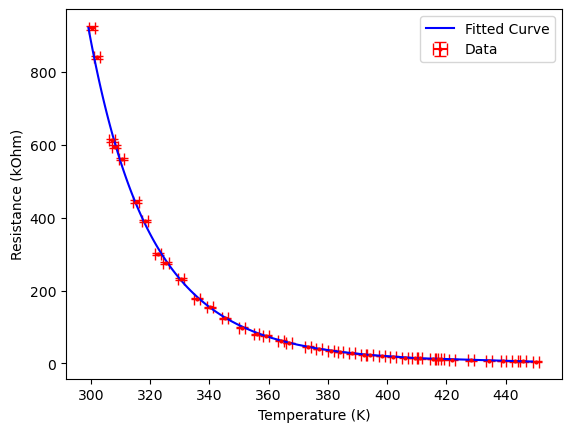
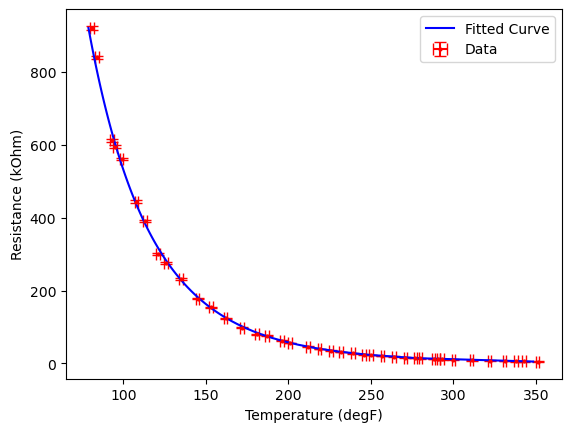
Uploading fixed naming scheme
Still figuring out git. I'm hopefully updating files in the correct location now.

diff --git a/docs/BBQ/BBQ_Setup.html b/docs/BBQ/BBQ_Setup.html
@@ -212,14 +212,14 @@ window.Quarto = {
 </header>
 
 
-<p>Once upon a time I got tired of tweaking my bbq dampers very hour for long smokes of brisket or pork shoulder. I put together an Arduino based PID fan controller that provided air flow from the bottom of the bbq, and I closed down the top damper. One challenge with this setup was reading out the temperature from a thermistor since I didn’t want to buy a thermocouple amplifier just for this project.</p>
+<p>Once upon a time I got tired of tweaking my bbq dampers very hour for long smokes of brisket or pork shoulder. I put together an Arduino based PID fan controller that provided air flow from the bottom of the bbq, and I closed down the top damper. One challenge with this setup was reading out the temperature from a thermistor since most food probe thermometers are thermistors, not thermocouples.</p>
 <section id="thermistor-calibration" class="level2">
 <h2 class="anchored" data-anchor-id="thermistor-calibration">Thermistor calibration</h2>
 <p>To calibrate the thermistor I filled a small pot with oil, and used a thermapen (food thermometer) and Fluke K type thermocouple as reference thermometers. I turned the burner on the lowest setting, continuously stirred the oil and moved the three thermometers (thermistor = unknown, thermapen, thermocouple) continuously to get an average of the oil bath temperature. The data and fit curve used are shown below:<br>
 <span class="math display">\[1/T = (a + b \cdot log(R) + c \cdot (log(R))^3)\]</span><br>
 *all units are converted to Kelvin and Ohms before fitting.</p>
 <p>This fit curve was uesd in the Arduino to calculate the temperature of the thermistor probes.</p>
-<div id="1aab8ef6-26b8-430c-b7da-49a02ce796db" class="cell" data-execution_count="5">
+<div id="1aab8ef6-26b8-430c-b7da-49a02ce796db" class="cell" data-execution_count="10">
 <details class="code-fold">
 <summary>Code</summary>
 <div class="code-copy-outer-scaffold"><div class="sourceCode cell-code" id="cb1"><pre class="sourceCode python code-with-copy"><code class="sourceCode python"><span id="cb1-1"><a href="#cb1-1" aria-hidden="true" tabindex="-1"></a><span class="im">import</span> numpy <span class="im">as</span> np</span>
@@ -227,22 +227,22 @@ window.Quarto = {
 <span id="cb1-3"><a href="#cb1-3" aria-hidden="true" tabindex="-1"></a><span class="im">import</span> matplotlib.pyplot <span class="im">as</span> plt</span>
 <span id="cb1-4"><a href="#cb1-4" aria-hidden="true" tabindex="-1"></a><span class="im">from</span> scipy.optimize <span class="im">import</span> curve_fit</span>
 <span id="cb1-5"><a href="#cb1-5" aria-hidden="true" tabindex="-1"></a></span>
-<span id="cb1-6"><a href="#cb1-6" aria-hidden="true" tabindex="-1"></a><span class="co"># 1. Define fit curve function here</span></span>
+<span id="cb1-6"><a href="#cb1-6" aria-hidden="true" tabindex="-1"></a><span class="co"># 1. Define fit curve function</span></span>
 <span id="cb1-7"><a href="#cb1-7" aria-hidden="true" tabindex="-1"></a><span class="kw">def</span> custom_curve(x, a, b, c):</span>
-<span id="cb1-8"><a href="#cb1-8" aria-hidden="true" tabindex="-1"></a>    <span class="co">"""</span></span>
-<span id="cb1-9"><a href="#cb1-9" aria-hidden="true" tabindex="-1"></a><span class="co">    Change this mathematical formula to match the curve you want to fit.</span></span>
-<span id="cb1-10"><a href="#cb1-10" aria-hidden="true" tabindex="-1"></a><span class="co">    Currently set to a quadratic function: y = 1/(a+b*np.log(x)+c*(np.log(x))**3)</span></span>
-<span id="cb1-11"><a href="#cb1-11" aria-hidden="true" tabindex="-1"></a><span class="co">    """</span></span>
-<span id="cb1-12"><a href="#cb1-12" aria-hidden="true" tabindex="-1"></a>    <span class="cf">return</span> (a<span class="op">+</span>b<span class="op">*</span>np.log(x)<span class="op">+</span>c<span class="op">*</span>(np.log(x))<span class="op">**</span><span class="dv">3</span>)</span>
-<span id="cb1-13"><a href="#cb1-13" aria-hidden="true" tabindex="-1"></a></span>
-<span id="cb1-14"><a href="#cb1-14" aria-hidden="true" tabindex="-1"></a><span class="co"># 2. Read the CSV file</span></span>
-<span id="cb1-15"><a href="#cb1-15" aria-hidden="true" tabindex="-1"></a>df <span class="op">=</span> pd.read_csv(<span class="st">"Thermistor-Oil.csv"</span>)</span>
+<span id="cb1-8"><a href="#cb1-8" aria-hidden="true" tabindex="-1"></a>    <span class="cf">return</span> (a<span class="op">+</span>b<span class="op">*</span>np.log(x)<span class="op">+</span>c<span class="op">*</span>(np.log(x))<span class="op">**</span><span class="dv">3</span>)</span>
+<span id="cb1-9"><a href="#cb1-9" aria-hidden="true" tabindex="-1"></a></span>
+<span id="cb1-10"><a href="#cb1-10" aria-hidden="true" tabindex="-1"></a><span class="co"># 2. Read the CSV file</span></span>
+<span id="cb1-11"><a href="#cb1-11" aria-hidden="true" tabindex="-1"></a>df <span class="op">=</span> pd.read_csv(<span class="st">"Thermistor-Oil.csv"</span>)</span>
+<span id="cb1-12"><a href="#cb1-12" aria-hidden="true" tabindex="-1"></a></span>
+<span id="cb1-13"><a href="#cb1-13" aria-hidden="true" tabindex="-1"></a><span class="co"># Extract the X and Y columns and convert to Kelvin and Ohms</span></span>
+<span id="cb1-14"><a href="#cb1-14" aria-hidden="true" tabindex="-1"></a>T_data <span class="op">=</span> (df[<span class="st">"BGE temp (F)"</span>].values<span class="op">-</span><span class="dv">32</span>)<span class="op">*</span>(<span class="dv">5</span><span class="op">/</span><span class="dv">9</span>)<span class="op">+</span><span class="fl">273.15</span></span>
+<span id="cb1-15"><a href="#cb1-15" aria-hidden="true" tabindex="-1"></a>R_data <span class="op">=</span> df[<span class="st">"Thermistor (kOhm)"</span>].values<span class="op">*</span><span class="dv">1000</span></span>
 <span id="cb1-16"><a href="#cb1-16" aria-hidden="true" tabindex="-1"></a></span>
-<span id="cb1-17"><a href="#cb1-17" aria-hidden="true" tabindex="-1"></a><span class="co"># Extract the X and Y columns</span></span>
-<span id="cb1-18"><a href="#cb1-18" aria-hidden="true" tabindex="-1"></a>T_data <span class="op">=</span> (df[<span class="st">"BGE temp (F)"</span>].values<span class="op">-</span><span class="dv">32</span>)<span class="op">*</span>(<span class="dv">5</span><span class="op">/</span><span class="dv">9</span>)<span class="op">+</span><span class="fl">273.15</span></span>
-<span id="cb1-19"><a href="#cb1-19" aria-hidden="true" tabindex="-1"></a>R_data <span class="op">=</span> df[<span class="st">"Thermistor (kOhm)"</span>].values<span class="op">*</span><span class="dv">1000</span></span>
-<span id="cb1-20"><a href="#cb1-20" aria-hidden="true" tabindex="-1"></a>R_error <span class="op">=</span> <span class="fl">0.005</span><span class="op">*</span>R_data <span class="op">+</span> <span class="dv">1000</span></span>
-<span id="cb1-21"><a href="#cb1-21" aria-hidden="true" tabindex="-1"></a>T_error <span class="op">=</span> <span class="dv">1</span></span>
+<span id="cb1-17"><a href="#cb1-17" aria-hidden="true" tabindex="-1"></a><span class="co"># Add error terms</span></span>
+<span id="cb1-18"><a href="#cb1-18" aria-hidden="true" tabindex="-1"></a><span class="co"># Fluke error is 0.5% of reading + least significant digit</span></span>
+<span id="cb1-19"><a href="#cb1-19" aria-hidden="true" tabindex="-1"></a>R_error <span class="op">=</span> <span class="fl">0.005</span><span class="op">*</span>R_data <span class="op">+</span> <span class="dv">1000</span></span>
+<span id="cb1-20"><a href="#cb1-20" aria-hidden="true" tabindex="-1"></a><span class="co"># Temperature error is assumed to be 2F, converted to Kelvin</span></span>
+<span id="cb1-21"><a href="#cb1-21" aria-hidden="true" tabindex="-1"></a>T_error <span class="op">=</span> <span class="dv">2</span><span class="op">*</span>(<span class="dv">5</span><span class="op">/</span><span class="dv">9</span>)</span>
 <span id="cb1-22"><a href="#cb1-22" aria-hidden="true" tabindex="-1"></a></span>
 <span id="cb1-23"><a href="#cb1-23" aria-hidden="true" tabindex="-1"></a><span class="co"># 3. Fit the curve to the data</span></span>
 <span id="cb1-24"><a href="#cb1-24" aria-hidden="true" tabindex="-1"></a><span class="co"># curve_fit returns:</span></span>
@@ -259,23 +259,19 @@ window.Quarto = {
 <span id="cb1-35"><a href="#cb1-35" aria-hidden="true" tabindex="-1"></a><span class="bu">print</span>(<span class="ss">f"b = </span><span class="sc">{</span>popt[<span class="dv">1</span>]<span class="sc">}</span><span class="ss">"</span>)</span>
 <span id="cb1-36"><a href="#cb1-36" aria-hidden="true" tabindex="-1"></a><span class="bu">print</span>(<span class="ss">f"c = </span><span class="sc">{</span>popt[<span class="dv">2</span>]<span class="sc">}</span><span class="ss">"</span>)</span>
 <span id="cb1-37"><a href="#cb1-37" aria-hidden="true" tabindex="-1"></a></span>
-<span id="cb1-38"><a href="#cb1-38" aria-hidden="true" tabindex="-1"></a><span class="co">#a = 0.002240733</span></span>
-<span id="cb1-39"><a href="#cb1-39" aria-hidden="true" tabindex="-1"></a><span class="co">#b = 0.000350373</span></span>
-<span id="cb1-40"><a href="#cb1-40" aria-hidden="true" tabindex="-1"></a><span class="co">#c = 0.000021379</span></span>
+<span id="cb1-38"><a href="#cb1-38" aria-hidden="true" tabindex="-1"></a><span class="co"># 4. Plot the original data and the fitted curve</span></span>
+<span id="cb1-39"><a href="#cb1-39" aria-hidden="true" tabindex="-1"></a><span class="co"># plt.scatter(T_data, R_data, color="red", label="Data")</span></span>
+<span id="cb1-40"><a href="#cb1-40" aria-hidden="true" tabindex="-1"></a>plt.errorbar((T_data<span class="op">-</span><span class="fl">273.15</span>)<span class="op">*</span>(<span class="dv">9</span><span class="op">/</span><span class="dv">5</span>)<span class="op">+</span><span class="dv">32</span>, R_data<span class="op">/</span><span class="dv">1000</span>, yerr<span class="op">=</span>R_error<span class="op">/</span><span class="dv">1000</span>, xerr<span class="op">=</span>T_error, fmt<span class="op">=</span><span class="st">'o'</span>, color<span class="op">=</span><span class="st">"red"</span>, label<span class="op">=</span><span class="st">"Data"</span>, ms<span class="op">=</span><span class="dv">2</span>, capsize<span class="op">=</span><span class="dv">4</span>)</span>
 <span id="cb1-41"><a href="#cb1-41" aria-hidden="true" tabindex="-1"></a></span>
-<span id="cb1-42"><a href="#cb1-42" aria-hidden="true" tabindex="-1"></a><span class="co"># 4. (Optional) Plot the original data and the fitted curve</span></span>
-<span id="cb1-43"><a href="#cb1-43" aria-hidden="true" tabindex="-1"></a><span class="co"># plt.scatter(T_data, R_data, color="red", label="Data")</span></span>
-<span id="cb1-44"><a href="#cb1-44" aria-hidden="true" tabindex="-1"></a>plt.errorbar(T_data, R_data<span class="op">/</span><span class="dv">1000</span>, yerr<span class="op">=</span>R_error<span class="op">/</span><span class="dv">1000</span>, xerr<span class="op">=</span>T_error, fmt<span class="op">=</span><span class="st">'o'</span>, color<span class="op">=</span><span class="st">"red"</span>, label<span class="op">=</span><span class="st">"Data"</span>, ms<span class="op">=</span><span class="dv">2</span>, capsize<span class="op">=</span><span class="dv">4</span>)</span>
+<span id="cb1-42"><a href="#cb1-42" aria-hidden="true" tabindex="-1"></a><span class="co"># Generate smooth resistance values for the curve line</span></span>
+<span id="cb1-43"><a href="#cb1-43" aria-hidden="true" tabindex="-1"></a>R_fit <span class="op">=</span> np.linspace(<span class="bu">min</span>(R_data), <span class="bu">max</span>(R_data), <span class="dv">100</span>)</span>
+<span id="cb1-44"><a href="#cb1-44" aria-hidden="true" tabindex="-1"></a>T_fit <span class="op">=</span> (<span class="dv">1</span><span class="op">/</span>custom_curve(R_fit, <span class="op">*</span>popt) <span class="op">-</span> <span class="fl">273.15</span>)<span class="op">*</span>(<span class="dv">9</span><span class="op">/</span><span class="dv">5</span>)<span class="op">+</span><span class="dv">32</span> <span class="co"># *popt unpacks the optimized a, b, c</span></span>
 <span id="cb1-45"><a href="#cb1-45" aria-hidden="true" tabindex="-1"></a></span>
-<span id="cb1-46"><a href="#cb1-46" aria-hidden="true" tabindex="-1"></a><span class="co"># Generate smooth X values for the curve line</span></span>
-<span id="cb1-47"><a href="#cb1-47" aria-hidden="true" tabindex="-1"></a>R_fit <span class="op">=</span> np.linspace(<span class="bu">min</span>(R_data), <span class="bu">max</span>(R_data), <span class="dv">100</span>)</span>
-<span id="cb1-48"><a href="#cb1-48" aria-hidden="true" tabindex="-1"></a>T_fit <span class="op">=</span> <span class="fl">1.</span><span class="op">/</span>custom_curve(R_fit, <span class="op">*</span>popt)  <span class="co"># *popt unpacks the optimized a, b, c</span></span>
-<span id="cb1-49"><a href="#cb1-49" aria-hidden="true" tabindex="-1"></a></span>
-<span id="cb1-50"><a href="#cb1-50" aria-hidden="true" tabindex="-1"></a>plt.plot(T_fit, R_fit<span class="op">/</span><span class="dv">1000</span>, color<span class="op">=</span><span class="st">"blue"</span>, label<span class="op">=</span><span class="st">"Fitted Curve"</span>)</span>
-<span id="cb1-51"><a href="#cb1-51" aria-hidden="true" tabindex="-1"></a>plt.xlabel(<span class="st">"Temperature (K)"</span>)</span>
-<span id="cb1-52"><a href="#cb1-52" aria-hidden="true" tabindex="-1"></a>plt.ylabel(<span class="st">"Resistance (kOhm)"</span>)</span>
-<span id="cb1-53"><a href="#cb1-53" aria-hidden="true" tabindex="-1"></a>plt.legend()</span>
-<span id="cb1-54"><a href="#cb1-54" aria-hidden="true" tabindex="-1"></a>plt.show()</span></code></pre></div><button title="Copy to Clipboard" class="code-copy-button"><i class="bi"></i></button></div>
+<span id="cb1-46"><a href="#cb1-46" aria-hidden="true" tabindex="-1"></a>plt.plot(T_fit, R_fit<span class="op">/</span><span class="dv">1000</span>, color<span class="op">=</span><span class="st">"blue"</span>, label<span class="op">=</span><span class="st">"Fitted Curve"</span>)</span>
+<span id="cb1-47"><a href="#cb1-47" aria-hidden="true" tabindex="-1"></a>plt.xlabel(<span class="st">"Temperature (degF)"</span>)</span>
+<span id="cb1-48"><a href="#cb1-48" aria-hidden="true" tabindex="-1"></a>plt.ylabel(<span class="st">"Resistance (kOhm)"</span>)</span>
+<span id="cb1-49"><a href="#cb1-49" aria-hidden="true" tabindex="-1"></a>plt.legend()</span>
+<span id="cb1-50"><a href="#cb1-50" aria-hidden="true" tabindex="-1"></a>plt.show()</span></code></pre></div><button title="Copy to Clipboard" class="code-copy-button"><i class="bi"></i></button></div>
 </details>
 <div class="cell-output cell-output-stdout">
 <pre><code>Fitted parameters:

diff --git a/docs/index.html b/docs/index.html
@@ -192,7 +192,7 @@ pre > code.sourceCode > span > a:first-child::before { text-decoration: underlin
 <section id="bbq-controller" class="level3">
 <h3 class="anchored" data-anchor-id="bbq-controller">BBQ Controller</h3>
 <p>An attempt to automate a charcoal bbq in the era where low-cost controllers were coming online.</p>
-<p><a href="BBQ/BBQ_setup.html">Explore BBQ Controller</a></p>
+<p><a href="BBQ/BBQ_Setup.html">Explore BBQ Controller</a></p>
 </section>
 </section>
 <section id="swagelok-tubing" class="level2">
@@ -747,7 +747,7 @@ pre > code.sourceCode > span > a:first-child::before { text-decoration: underlin
 <span id="cb1-13"><a href="#cb1-13" aria-hidden="true" tabindex="-1"></a>An attempt to automate a charcoal bbq in the era where low-cost</span>
 <span id="cb1-14"><a href="#cb1-14" aria-hidden="true" tabindex="-1"></a>controllers were coming online.</span>
 <span id="cb1-15"><a href="#cb1-15" aria-hidden="true" tabindex="-1"></a></span>
-<span id="cb1-16"><a href="#cb1-16" aria-hidden="true" tabindex="-1"></a><span class="co">[</span><span class="ot">Explore BBQ Controller</span><span class="co">](BBQ/BBQ_setup.html)</span></span>
+<span id="cb1-16"><a href="#cb1-16" aria-hidden="true" tabindex="-1"></a><span class="co">[</span><span class="ot">Explore BBQ Controller</span><span class="co">](BBQ/BBQ_Setup.html)</span></span>
 <span id="cb1-17"><a href="#cb1-17" aria-hidden="true" tabindex="-1"></a></span>
 <span id="cb1-18"><a href="#cb1-18" aria-hidden="true" tabindex="-1"></a><span class="fu">## Swagelok Tubing</span></span>
 <span id="cb1-19"><a href="#cb1-19" aria-hidden="true" tabindex="-1"></a></span>
